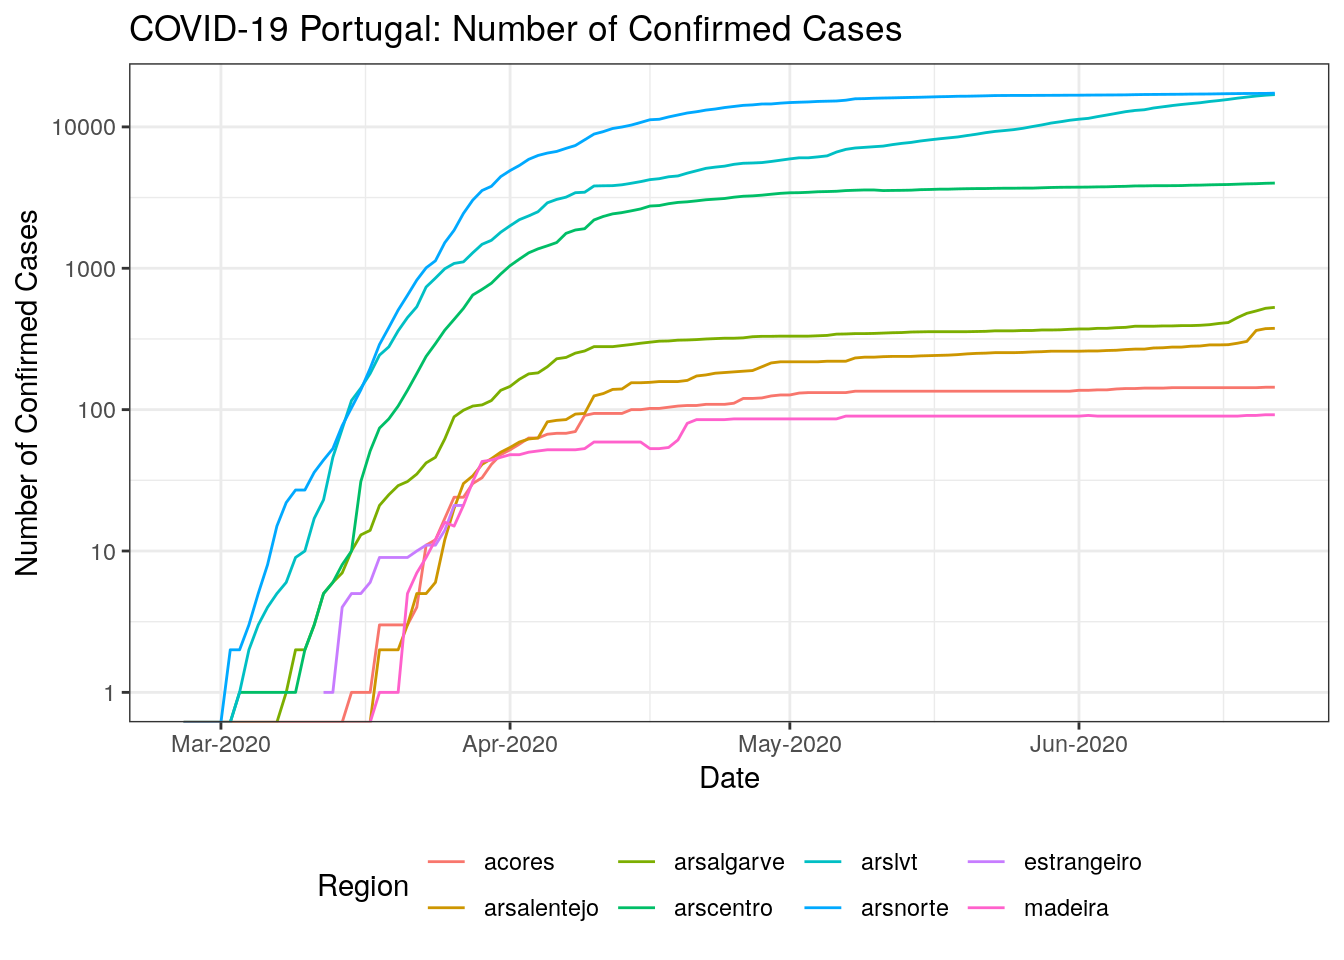
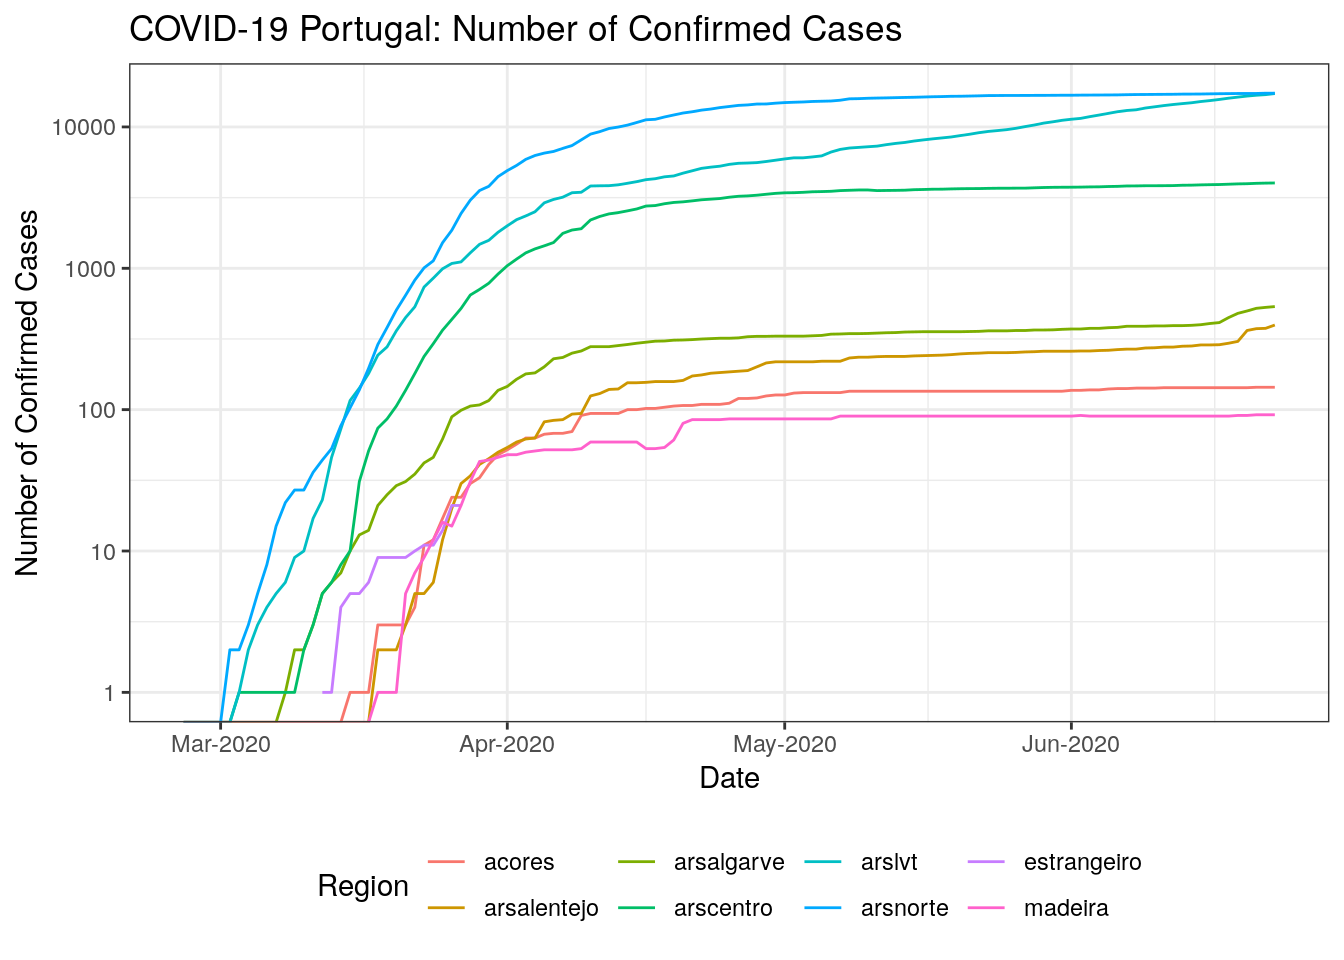
Updated data 2020-06-23

diff --git a/README.md b/README.md
@@ -1,7 +1,7 @@
 
 # Portuguese COVID-19 Data
 
-**Last updated:** Mon 22 Jun 2020 (14:46:08 WEST (+0100))
+**Last updated:** Tue 23 Jun 2020 (13:29:28 WEST (+0100))
 
 ## Source
 
@@ -42,7 +42,7 @@ theme_set(theme_bw())
 # Read in data as a data.frame and data.table object.
 CV <- fread(here("data", "covid19pt_DSSG_Long.csv"))
 str(CV)
-## Classes 'data.table' and 'data.frame':   9912 obs. of  13 variables:
+## Classes 'data.table' and 'data.frame':   9996 obs. of  13 variables:
 ##  $ data       : chr  "2020-02-26" "2020-02-27" "2020-02-28" "2020-02-29" ...
 ##  $ data_dados : chr  "26-02-2020 00:00" "27-02-2020 00:00" "28-02-2020 00:00" "29-02-2020 00:00" ...
 ##  $ origVars   : chr  "cadeias_transmissao" "cadeias_transmissao" "cadeias_transmissao" "cadeias_transmissao" ...
@@ -100,7 +100,7 @@ CV[origType=="confirmados" & ageGrp=="" & region!="Portugal"] %>%
     y = "Number of Confirmed Cases",
     colour = "Region")
 ## Warning: Transformation introduced infinite values in continuous y-axis
-## Warning: Removed 102 row(s) containing missing values (geom_path).
+## Warning: Removed 103 row(s) containing missing values (geom_path).
 ```
 
 <img src="README_figs/README-casesbyRegion-1.png" width="672" />
@@ -119,9 +119,9 @@ CV[dayChange<0][
 ##   4: 2020-03-24 confirmados_40_49_f   224        -2
 ##   5: 2020-03-19 confirmados_60_69_f    35       -14
 ##  ---                                               
-## 275: 2020-06-05          vigilancia 28088      -597
-## 276: 2020-06-08          vigilancia 28791      -521
-## 277: 2020-06-13          vigilancia 30655      -124
-## 278: 2020-06-17          vigilancia 30289      -521
-## 279: 2020-06-19          vigilancia 29046     -1380
+## 278: 2020-06-08          vigilancia 28791      -521
+## 279: 2020-06-13          vigilancia 30655      -124
+## 280: 2020-06-17          vigilancia 30289      -521
+## 281: 2020-06-19          vigilancia 29046     -1380
+## 282: 2020-06-23          vigilancia 30248      -708
 ```
